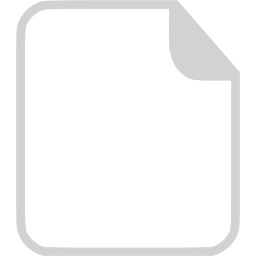
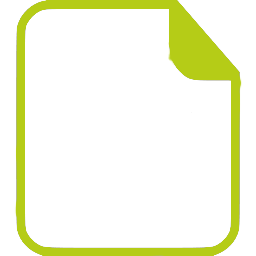
appartement OK

Changed region(s): [[0.0625, 0.0, 0.9688, 1.0]]

diff --git a/web/css/stylesheet.css b/web/css/stylesheet.css
@@ -1298,12 +1298,12 @@ video {
 }
 
 #offre {
-    margin-top: 100px;
+    margin-top: 150px;
     position: relative;
 }
 
 .vignette {
-    transform: rotateY(180deg);
+    width: 150px;
 }
 
 .iconeOffre {
@@ -1316,9 +1316,9 @@ video {
 }
 
 .zoomOffre {
-    -webkit-transform: scale(1.1);
-    -ms-transform: scale(1.1);
-    transform: scale(1.1);
+    -webkit-transform: scale(1.2);
+    -ms-transform: scale(1.2);
+    transform: scale(1.2);
     transition: 1s;
 }
 
@@ -1326,6 +1326,7 @@ video {
     perspective: 1000px;
     float: left;
 }
+
 /* turning on hover */
 
 .flip-container:hover .flipper {
@@ -1335,10 +1336,11 @@ video {
 .flip-container,
 .front,
 .back {
-    width: 250px;
-    height: 250px;
+    width: 150px;
+    height: 150px;
     text-align: center;
 }
+
 /* flipping speed here */
 
 .flipper {
@@ -1346,6 +1348,7 @@ video {
     transform-style: preserve-3d;
     position: relative;
 }
+
 /* making the the other side hidden while flipping */
 
 .front,
@@ -1355,11 +1358,13 @@ video {
     top: 0;
     left: 0;
 }
+
 /* front side is in front of a back side */
 
 .front {
     z-index: 2;
 }
+
 /* back side */
 
 .back {
@@ -1367,16 +1372,14 @@ video {
 }
 
 .back p {
-    font-size: 14pt;
+    font-size: 11pt;
     font-family: Montserrat;
     letter-spacing: .55pt;
-    border: 8px solid #d2d2d2;
+    border: 5px solid #B5CC17;
     border-radius: 20px;
     background-color: white;
     padding: 20px;
 }
-
-
 
 .filtreMap p {
     background-color: #e6e6e6;
@@ -1536,60 +1539,72 @@ video {
 /* -------------------------- APPARTEMENT -----------------------------*/
 /* --------------------------------------------------------------------*/
 
-.residenceFlat {
-    font-family: Montserrat;
-    letter-spacing: .55pt;
-    text-transform: uppercase;
+.infoFlat {
+    margin-bottom: 40px;
 }
 
-.residenceFlat h2 {
-    font-weight: 300;
-    font-size: 31pt;
-    color: #B5CC17;
-}
-
-.residenceFlat p {
-    font-weight: 300;
-    font-size: 18pt;
-    font-style: italic;
-    color: #676767;
-}
-
-.pdfFlat {
-    margin-top: 50px;
-    background-color: #e6e6e6;
-    padding: 5px 0;
-}
-
-.pdfFlat a {
-    font-family: Montserrat;
-    letter-spacing: .55pt;
-    text-transform: uppercase;
-}
-
-.referenceZone {
+.offreFlat {
     position: relative;
-    color: white;
+    margin-top: 20px;
+}
+
+.offreFlat .flip-container {
+    float: right;
+}
+
+.retourZone {
+    position: relative;
+    margin-top: 20px;
+}
+
+.retourFlat {
+    position: absolute;
     font-family: Montserrat;
     letter-spacing: .55pt;
     text-transform: uppercase;
-    font-size: 31pt;
-}
-
-.referenceZone img {
-    filter: brightness(70%);
-    width: 100%;
-}
-
-.referenceFlat {
-    position: absolute;
+    color: white;
     top: 50%;
     left: 50%;
     transform: translateX(-50%) translateY(-50%);
 }
 
-.infoFlat {
-    margin-bottom: 40px;
+.retourZone img {
+    filter: brightness(70%);
+    width: 100%;
+}
+
+.residenceFlat h2 {
+    font-weight: 300;
+    font-size: 40pt;
+    color: #B5CC17;
+}
+
+.residenceFlat p {
+    font-weight: 300;
+    font-size: 30pt;
+    font-style: italic;
+    color: #676767;
+}
+
+.infoFlat2 {
+    margin-top: 70px;
+    font-family: Montserrat;
+    letter-spacing: .55pt;
+    text-transform: uppercase;
+}
+
+.typeFlat {
+    font-size: 21pt;
+}
+
+.prixFlat {
+    font-size: 26pt;
+    color: #B5CC17;
+}
+
+.pdfIcon {
+    float: right;
+    width: 70px;
 }
 
 .descriptif {
@@ -1612,7 +1627,47 @@ video {
     margin-bottom: 20px;
 }
 
-.icon-apt{
+.icon-apt {
     width: 60px;
     height: 60px;
 }
+
+.accrocheResidenceFlat {
+    margin: 70px 0;
+    background-color: #f9f9f7;
+}
+
+.accrocheFlat {
+    padding-top: 20px;
+    width: 60%;
+    margin-left: auto;
+    margin-right: auto;
+    margin-top: 0;
+    font-family: Lato;
+    letter-spacing: .55pt;
+    font-weight: 500;
+    font-size: 25pt;
+    font-style: italic;
+    color: #676767;
+}
+
+.descriptionFlat {
+    padding-bottom: 20px;
+    font-family: Cantarell;
+    font-weight: 400;
+    font-size: 17pt;
+    color: #1D1D1B;
+}
+
+.partage {
+    margin-top: 40px;
+    font-family: Montserrat;
+    letter-spacing: .55pt;
+    font-size: 19pt;
+    display: inline-flex;
+}
+
+.partage p {
+    padding: 0 20px;
+}
+
